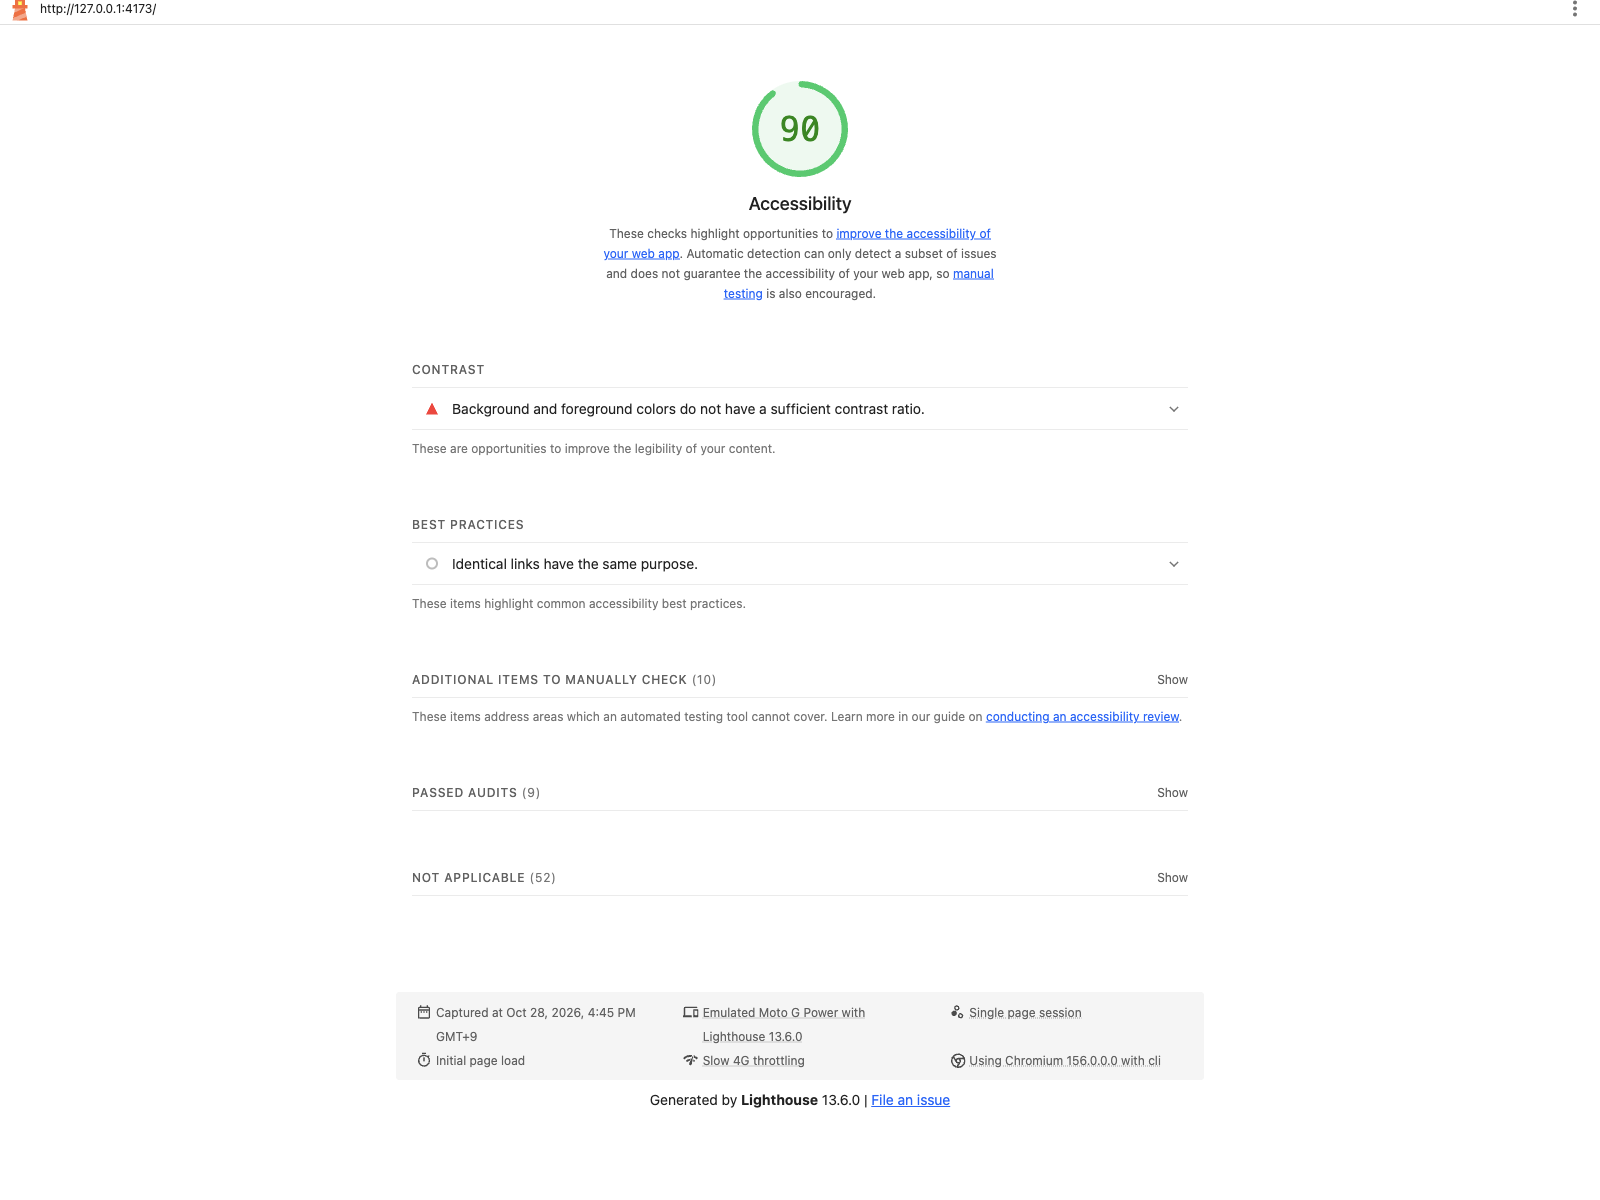
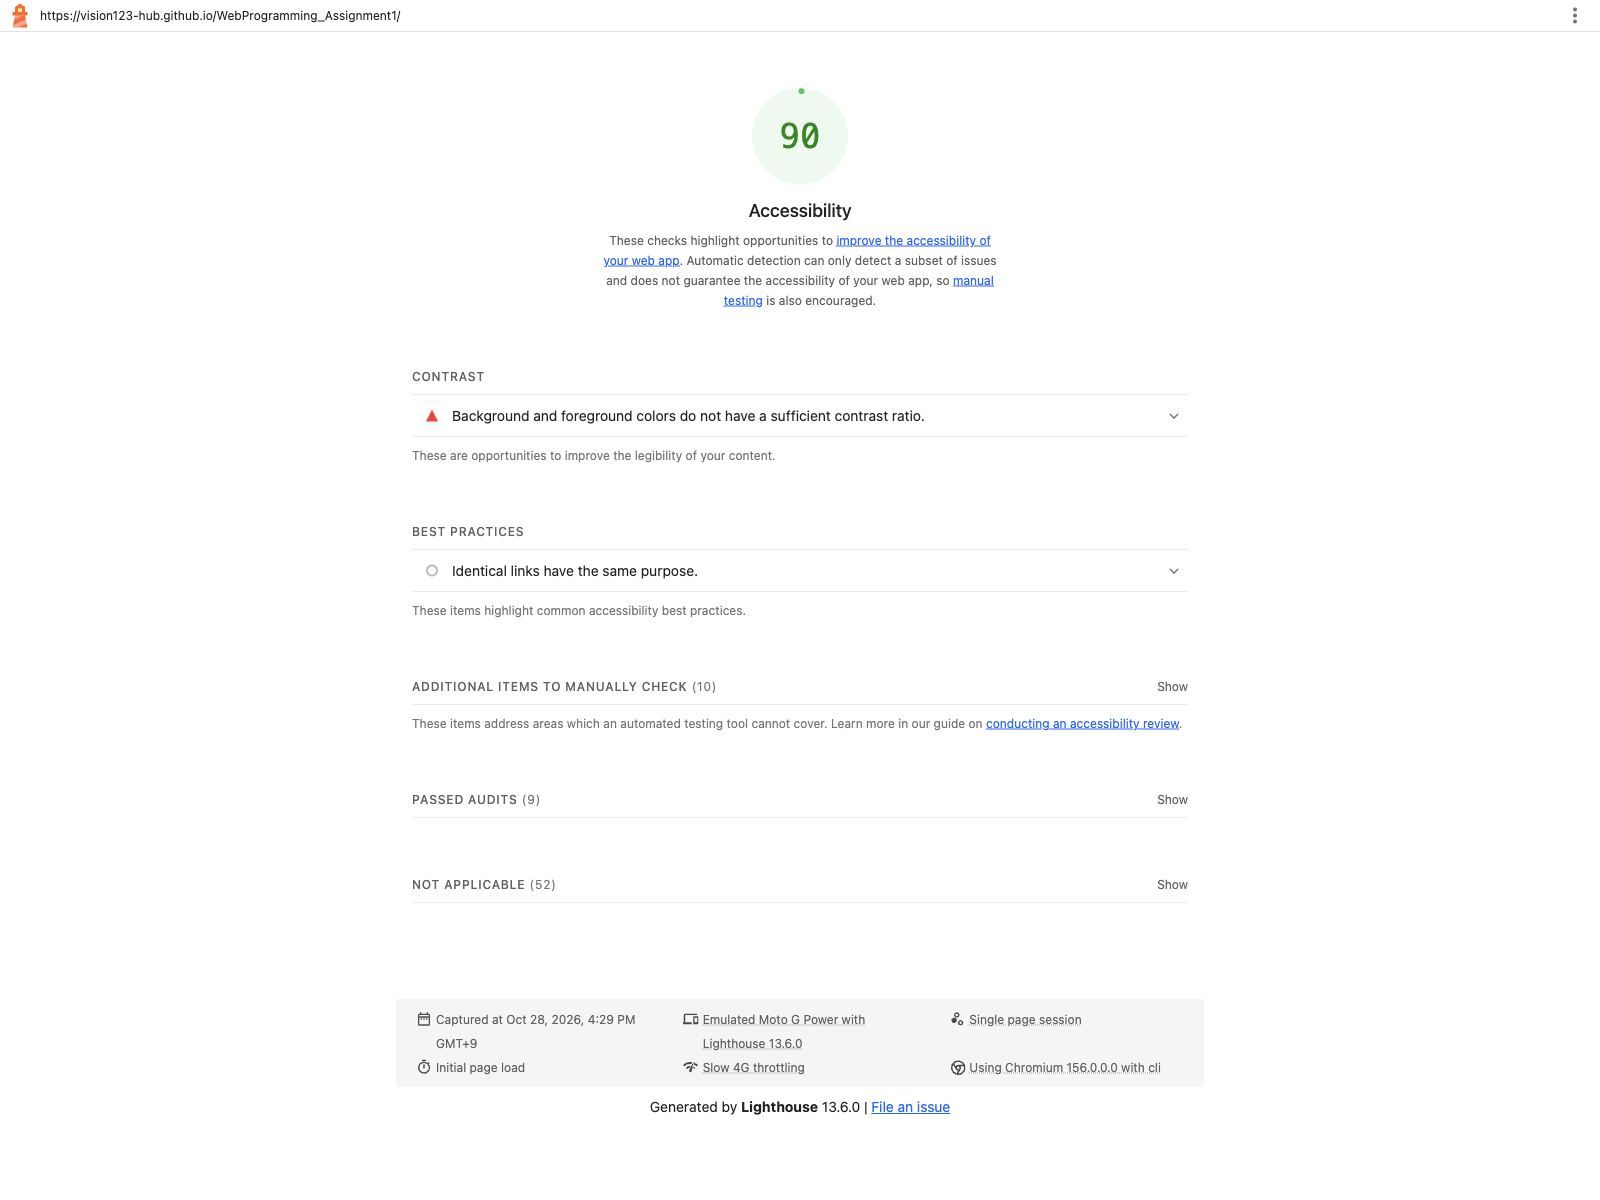
Update report with deployed audit results
Replace the local-preview score evidence with genuine before and after Lighthouse screenshots from the live GitHub Pages site and record the deployed results.

diff --git a/week 8/accessibility-report.md b/week 8/accessibility-report.md
@@ -1,29 +1,27 @@
 # Week 8 Accessibility Report
 
-I audited my course website with Lighthouse 13.6.0. I ran the before and after checks on the same local website URLs with the same mobile emulation and simulated throttling settings. The before check used a copy of the original committed files. The after check used my updated files.
+I checked my course website with Lighthouse 13.6.0 before and after the improvements. Both homepage checks used the same live GitHub Pages URL, mobile emulation, and simulated throttling.
 
 Website: [Web Programming Assignments](https://vision123-hub.github.io/WebProgramming_Assignment1/)
 
 ## Scores
 
 - Before: **90/100**
-- After: **100/100**
+- After deployment: **100/100**
 
 ## Problems found and fixes
 
-1. The homepage introduction text did not have enough color contrast. I darkened the text color.
-2. The Week 3 “Task 5” link briefly had low contrast while its colors were changing. This was reported by the initial deployed-site audit. I kept its movement effect but stopped animating the text and background colors.
+1. The homepage introduction text was too low-contrast. I darkened its text color.
+2. The Week 3 “Task 5” link briefly had low contrast while its colors changed. I kept its movement effect but stopped animating its text and background colors.
 3. Lighthouse found a missing main landmark on the Week 8 pages. I added a semantic `<main>` area to each page.
 
-The homepage report had one failed audit category, color contrast, affecting two text elements. The missing-main-landmark audit was repeated on all four Week 8 pages. These are three actual failing elements/findings, not three different Lighthouse rule names. Lighthouse reported them in the initial reports and no failed accessibility audits in the final reports.
+The first two problems were reported in the initial homepage contrast audit. The missing-main-landmark problem was reported on all four Week 8 pages. The final deployed Lighthouse checks scored 100/100 on the homepage and all four Week 8 pages, with no failed accessibility audits.
 
-The matching homepage screenshot pair compares the original committed files with the updated files at the same local URL. The supporting initial deployed-site report, which recorded the Week 3 link contrast issue, is preserved in the backup folder.
-
-I also added a “Skip to main content” link. I tested it with the keyboard; pressing Tab shows the link, and pressing Enter moves focus to the main content.
+I also added a “Skip to main content” link. I tested it with the keyboard: Tab reaches the link, and Enter moves focus to the main content.
 
 ## Screenshots
 
 - [Before Lighthouse score](./accessibility-before.png)
 - [After Lighthouse score](./accessibility-after.png)
 
-The detailed Lighthouse HTML and JSON reports are kept in the `lighthouse-backup-2026-10-28` folder outside Week 8. The final screenshots compare the original committed site and the updated site at the same local URLs. The updated files have not been pushed to GitHub Pages.
+The detailed Lighthouse HTML and JSON reports are saved in the backup folder outside Week 8.
